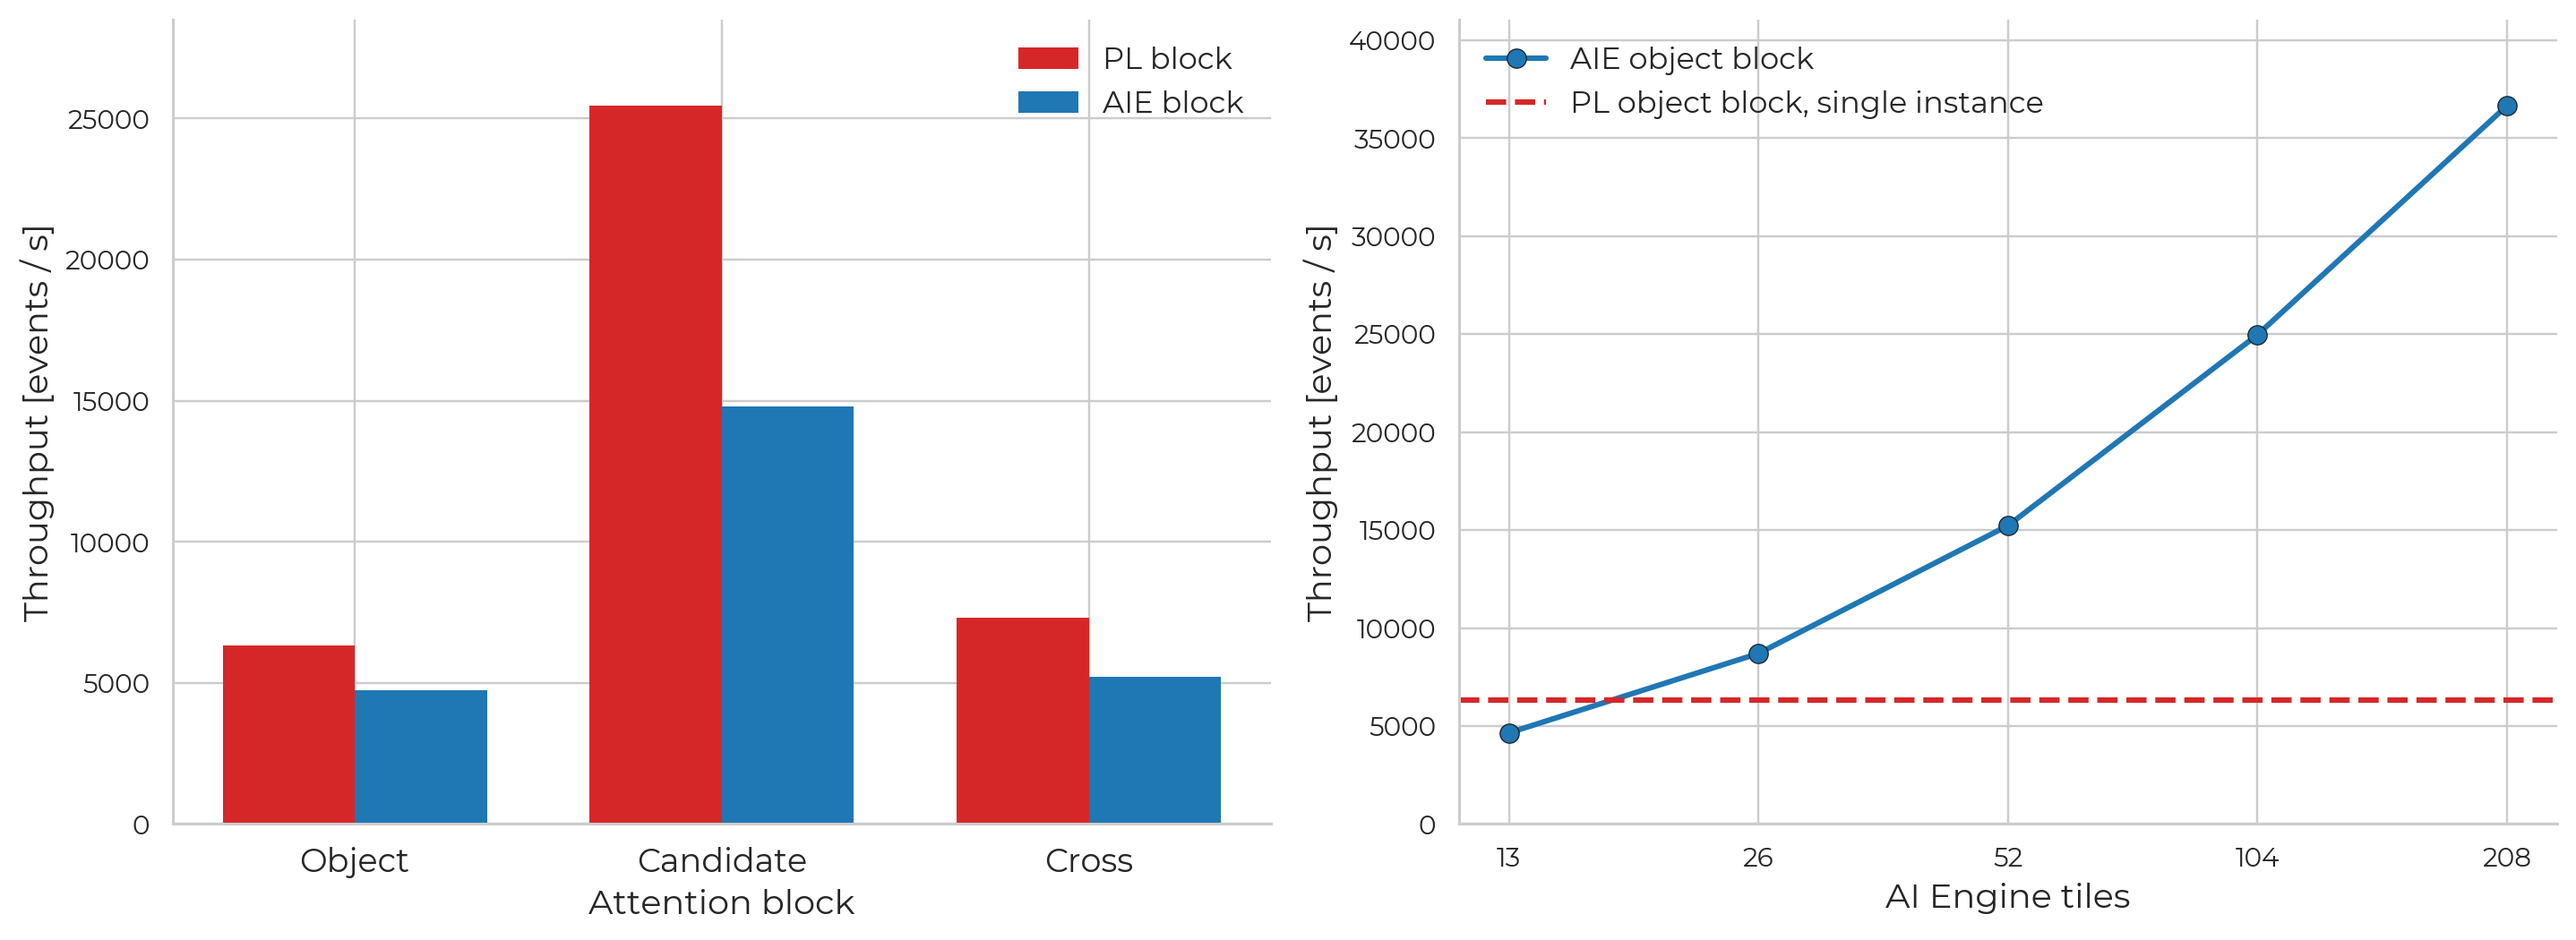
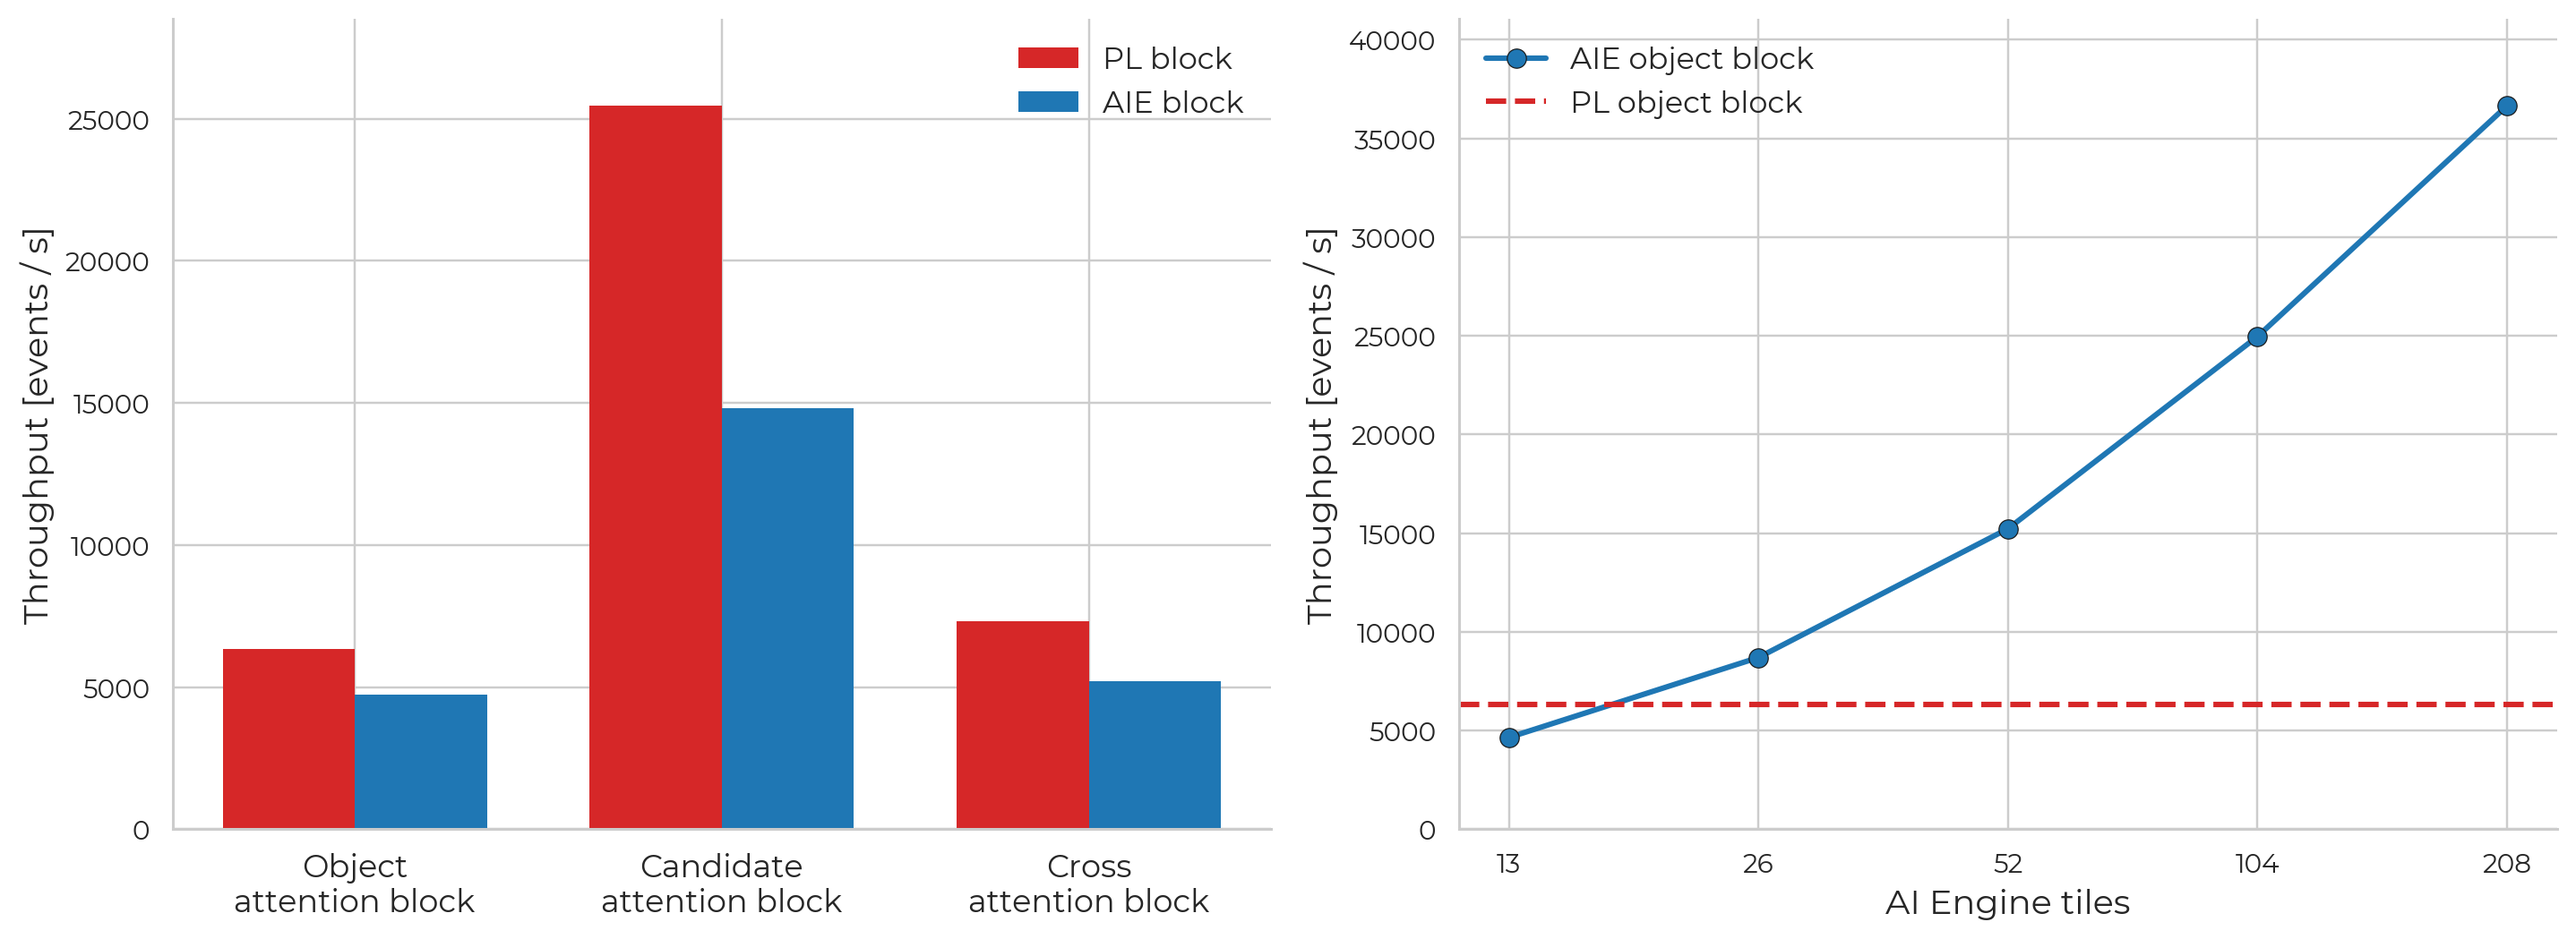
figs: full block names on the throughput axis, simpler right legend

diff --git a/scripts/make_throughput_charts.py b/scripts/make_throughput_charts.py
@@ -76,7 +76,8 @@ def fig_blocks_and_scaling():
     fig, (axb, axs) = plt.subplots(1, 2, figsize=(13.2, 4.9))
 
     # --- (a) single attention block, PL vs AIE ---
-    blocks = ["Object", "Candidate", "Cross"]
+    blocks = ["Object\nattention block", "Candidate\nattention block",
+              "Cross\nattention block"]
     pl_v = np.array([6334, 25458, 7307], float)
     aie_v = np.array([4738, 14808, 5212], float)
     xs = np.arange(len(blocks))
@@ -84,8 +85,7 @@ def fig_blocks_and_scaling():
     axb.bar(xs - w/2, pl_v,  width=w, color=PL_C,  label="PL block")
     axb.bar(xs + w/2, aie_v, width=w, color=AIE_C, label="AIE block")
     axb.set_xticks(xs)
-    axb.set_xticklabels(blocks, fontsize=12)
-    axb.set_xlabel("Attention block", fontsize=12.5)
+    axb.set_xticklabels(blocks, fontsize=11.5)
     axb.set_ylabel("Throughput [events / s]", fontsize=12.5)
     axb.set_ylim(0, pl_v.max() * 1.12)
     axb.legend(fontsize=11, frameon=False)
@@ -96,7 +96,7 @@ def fig_blocks_and_scaling():
     axs.plot(tiles, meas, "o-", color=AIE_C, lw=2, ms=7,
              markeredgecolor="k", markeredgewidth=0.4, label="AIE object block")
     axs.axhline(6334, color=PL_C, lw=2, ls="--",
-                label="PL object block, single instance")
+                label="PL object block")
     axs.set_xscale("log", base=2)
     axs.set_xticks(tiles)
     axs.get_xaxis().set_major_formatter(mpl.ticker.ScalarFormatter())
